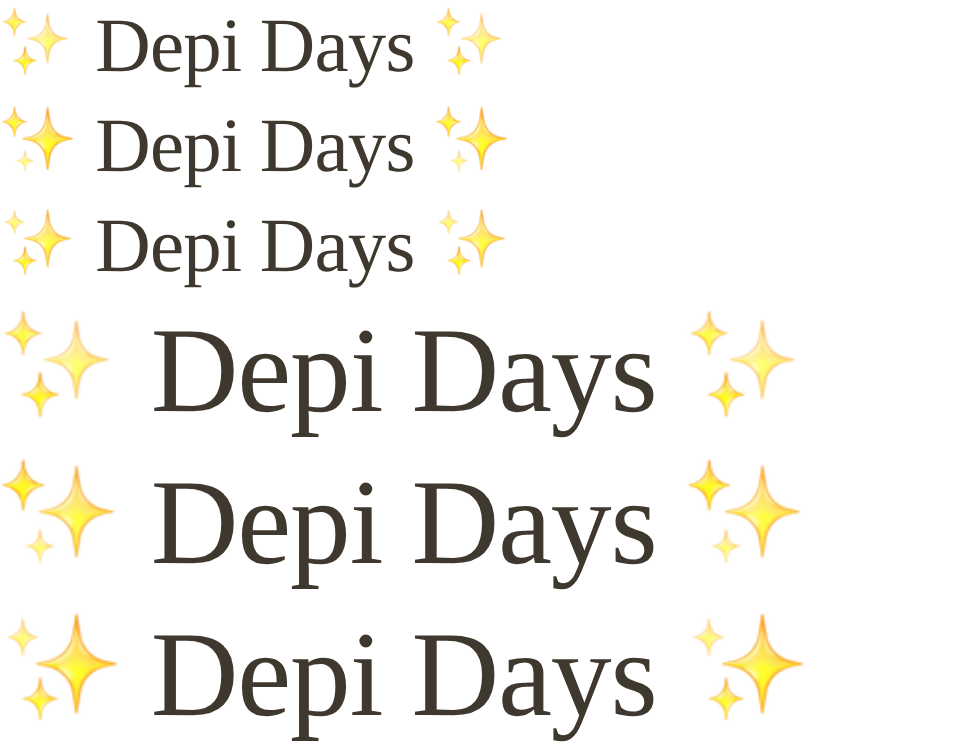
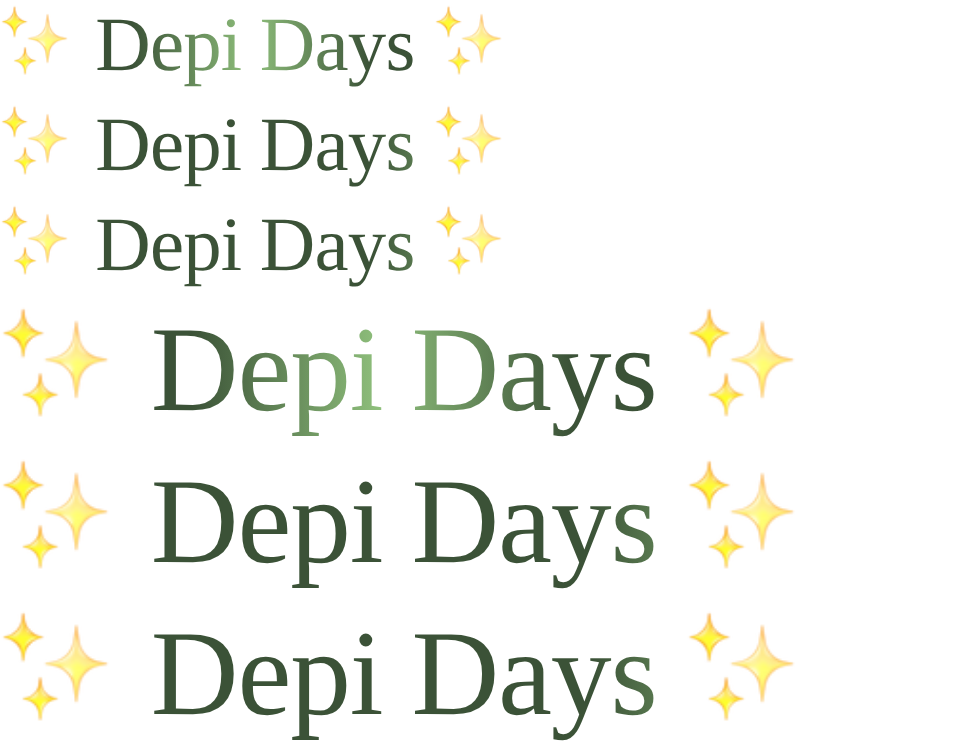
Depi Days: el texto suma el brillo verde de los precios de los combos
Claude-Session: https://claude.ai/code/session_012fpDtzsKRUNsWkG8TMYH32

diff --git a/preview/silkderma-preview.html b/preview/silkderma-preview.html
@@ -120,6 +120,7 @@ header{position:sticky;top:0;z-index:20;background:color-mix(in srgb,var(--crema
 .como small{flex-basis:100%;color:var(--suave);font-size:.84rem}
 @media(max-width:820px){.res-head{grid-template-columns:1fr}.como ol{flex-direction:column}}
 .res-head h2 .dd{font-style:normal;letter-spacing:-.01em}
+.dd-txt{background:linear-gradient(90deg,var(--salvia-prof) 0%,var(--salvia-prof) 35%,#8FC07C 50%,var(--salvia-prof) 65%,var(--salvia-prof) 100%);background-size:250% 100%;-webkit-background-clip:text;background-clip:text;color:transparent;animation:brillo 5s ease-in-out infinite}
 .dd .brillo img{display:inline-block;width:1em;height:1em;vertical-align:-.1em}
 .res-head p{color:var(--suave);max-width:46ch}
 .res-head .gancho{font-family:var(--serif);font-style:italic;font-size:1.2rem;color:var(--salvia-osc);margin-bottom:6px}
@@ -360,7 +361,7 @@ a.ct:hover{transform:translateY(-2px);border-color:var(--salvia);box-shadow:0 10
 .wa-float svg{width:28px;height:28px;fill:#fff}
 .pend{background:var(--rosa);border-radius:4px;padding:0 4px;font-size:.85em}
 
-@media (prefers-reduced-motion:reduce){*{transition:none!important;animation:none!important;scroll-behavior:auto!important}.brillo{color:var(--crema)}.combo .precio{color:var(--salvia-prof)}}
+@media (prefers-reduced-motion:reduce){*{transition:none!important;animation:none!important;scroll-behavior:auto!important}.brillo{color:var(--crema)}.combo .precio,.dd-txt{color:var(--salvia-prof)}}
 
 /* Firma Tereré Estudio */
 .firma-te { background: #161415; padding: 14px 16px; text-align: center; }
@@ -446,7 +447,7 @@ a.ct:hover{transform:translateY(-2px);border-color:var(--salvia);box-shadow:0 10
       <div class="res-head">
         <div>
           <span class="eyebrow" id="ddEyebrow">Monte Caseros</span>
-          <h2 style="margin-top:12px"><span class="dd"><picture class="brillo" aria-hidden="true"><source srcset="../img/brillos-quieto.png" media="(prefers-reduced-motion: reduce)"><img src="../img/brillos.png" width="64" height="64" alt="" loading="lazy" decoding="async"></picture> Depi Days <picture class="brillo" aria-hidden="true"><source srcset="../img/brillos-quieto.png" media="(prefers-reduced-motion: reduce)"><img src="../img/brillos.png" width="64" height="64" alt="" loading="lazy" decoding="async"></picture></span></h2>
+          <h2 style="margin-top:12px"><span class="dd"><picture class="brillo" aria-hidden="true"><source srcset="../img/brillos-quieto.png" media="(prefers-reduced-motion: reduce)"><img src="../img/brillos.png" width="64" height="64" alt="" loading="lazy" decoding="async"></picture> <span class="dd-txt">Depi Days</span> <picture class="brillo" aria-hidden="true"><source srcset="../img/brillos-quieto.png" media="(prefers-reduced-motion: reduce)"><img src="../img/brillos.png" width="64" height="64" alt="" loading="lazy" decoding="async"></picture></span></h2>
         </div>
         <div>
           <p class="gancho">¿Ya pensaste en empezar láser?</p>

diff --git a/preview/template.html b/preview/template.html
@@ -120,6 +120,7 @@ header{position:sticky;top:0;z-index:20;background:color-mix(in srgb,var(--crema
 .como small{flex-basis:100%;color:var(--suave);font-size:.84rem}
 @media(max-width:820px){.res-head{grid-template-columns:1fr}.como ol{flex-direction:column}}
 .res-head h2 .dd{font-style:normal;letter-spacing:-.01em}
+.dd-txt{background:linear-gradient(90deg,var(--salvia-prof) 0%,var(--salvia-prof) 35%,#8FC07C 50%,var(--salvia-prof) 65%,var(--salvia-prof) 100%);background-size:250% 100%;-webkit-background-clip:text;background-clip:text;color:transparent;animation:brillo 5s ease-in-out infinite}
 .dd .brillo img{display:inline-block;width:1em;height:1em;vertical-align:-.1em}
 .res-head p{color:var(--suave);max-width:46ch}
 .res-head .gancho{font-family:var(--serif);font-style:italic;font-size:1.2rem;color:var(--salvia-osc);margin-bottom:6px}
@@ -360,7 +361,7 @@ a.ct:hover{transform:translateY(-2px);border-color:var(--salvia);box-shadow:0 10
 .wa-float svg{width:28px;height:28px;fill:#fff}
 .pend{background:var(--rosa);border-radius:4px;padding:0 4px;font-size:.85em}
 
-@media (prefers-reduced-motion:reduce){*{transition:none!important;animation:none!important;scroll-behavior:auto!important}.brillo{color:var(--crema)}.combo .precio{color:var(--salvia-prof)}}
+@media (prefers-reduced-motion:reduce){*{transition:none!important;animation:none!important;scroll-behavior:auto!important}.brillo{color:var(--crema)}.combo .precio,.dd-txt{color:var(--salvia-prof)}}
 
 /* Firma Tereré Estudio */
 .firma-te { background: #161415; padding: 14px 16px; text-align: center; }
@@ -446,7 +447,7 @@ a.ct:hover{transform:translateY(-2px);border-color:var(--salvia);box-shadow:0 10
       <div class="res-head">
         <div>
           <span class="eyebrow" id="ddEyebrow">Monte Caseros</span>
-          <h2 style="margin-top:12px"><span class="dd"><picture class="brillo" aria-hidden="true"><source srcset="{{IMG}}brillos-quieto.png" media="(prefers-reduced-motion: reduce)"><img src="{{IMG}}brillos.png" width="64" height="64" alt="" loading="lazy" decoding="async"></picture> Depi Days <picture class="brillo" aria-hidden="true"><source srcset="{{IMG}}brillos-quieto.png" media="(prefers-reduced-motion: reduce)"><img src="{{IMG}}brillos.png" width="64" height="64" alt="" loading="lazy" decoding="async"></picture></span></h2>
+          <h2 style="margin-top:12px"><span class="dd"><picture class="brillo" aria-hidden="true"><source srcset="{{IMG}}brillos-quieto.png" media="(prefers-reduced-motion: reduce)"><img src="{{IMG}}brillos.png" width="64" height="64" alt="" loading="lazy" decoding="async"></picture> <span class="dd-txt">Depi Days</span> <picture class="brillo" aria-hidden="true"><source srcset="{{IMG}}brillos-quieto.png" media="(prefers-reduced-motion: reduce)"><img src="{{IMG}}brillos.png" width="64" height="64" alt="" loading="lazy" decoding="async"></picture></span></h2>
         </div>
         <div>
           <p class="gancho">¿Ya pensaste en empezar láser?</p>

diff --git a/index.html b/index.html
@@ -120,6 +120,7 @@ header{position:sticky;top:0;z-index:20;background:color-mix(in srgb,var(--crema
 .como small{flex-basis:100%;color:var(--suave);font-size:.84rem}
 @media(max-width:820px){.res-head{grid-template-columns:1fr}.como ol{flex-direction:column}}
 .res-head h2 .dd{font-style:normal;letter-spacing:-.01em}
+.dd-txt{background:linear-gradient(90deg,var(--salvia-prof) 0%,var(--salvia-prof) 35%,#8FC07C 50%,var(--salvia-prof) 65%,var(--salvia-prof) 100%);background-size:250% 100%;-webkit-background-clip:text;background-clip:text;color:transparent;animation:brillo 5s ease-in-out infinite}
 .dd .brillo img{display:inline-block;width:1em;height:1em;vertical-align:-.1em}
 .res-head p{color:var(--suave);max-width:46ch}
 .res-head .gancho{font-family:var(--serif);font-style:italic;font-size:1.2rem;color:var(--salvia-osc);margin-bottom:6px}
@@ -360,7 +361,7 @@ a.ct:hover{transform:translateY(-2px);border-color:var(--salvia);box-shadow:0 10
 .wa-float svg{width:28px;height:28px;fill:#fff}
 .pend{background:var(--rosa);border-radius:4px;padding:0 4px;font-size:.85em}
 
-@media (prefers-reduced-motion:reduce){*{transition:none!important;animation:none!important;scroll-behavior:auto!important}.brillo{color:var(--crema)}.combo .precio{color:var(--salvia-prof)}}
+@media (prefers-reduced-motion:reduce){*{transition:none!important;animation:none!important;scroll-behavior:auto!important}.brillo{color:var(--crema)}.combo .precio,.dd-txt{color:var(--salvia-prof)}}
 
 /* Firma Tereré Estudio */
 .firma-te { background: #161415; padding: 14px 16px; text-align: center; }
@@ -446,7 +447,7 @@ a.ct:hover{transform:translateY(-2px);border-color:var(--salvia);box-shadow:0 10
       <div class="res-head">
         <div>
           <span class="eyebrow" id="ddEyebrow">Monte Caseros</span>
-          <h2 style="margin-top:12px"><span class="dd"><picture class="brillo" aria-hidden="true"><source srcset="img/brillos-quieto.png" media="(prefers-reduced-motion: reduce)"><img src="img/brillos.png" width="64" height="64" alt="" loading="lazy" decoding="async"></picture> Depi Days <picture class="brillo" aria-hidden="true"><source srcset="img/brillos-quieto.png" media="(prefers-reduced-motion: reduce)"><img src="img/brillos.png" width="64" height="64" alt="" loading="lazy" decoding="async"></picture></span></h2>
+          <h2 style="margin-top:12px"><span class="dd"><picture class="brillo" aria-hidden="true"><source srcset="img/brillos-quieto.png" media="(prefers-reduced-motion: reduce)"><img src="img/brillos.png" width="64" height="64" alt="" loading="lazy" decoding="async"></picture> <span class="dd-txt">Depi Days</span> <picture class="brillo" aria-hidden="true"><source srcset="img/brillos-quieto.png" media="(prefers-reduced-motion: reduce)"><img src="img/brillos.png" width="64" height="64" alt="" loading="lazy" decoding="async"></picture></span></h2>
         </div>
         <div>
           <p class="gancho">¿Ya pensaste en empezar láser?</p>
